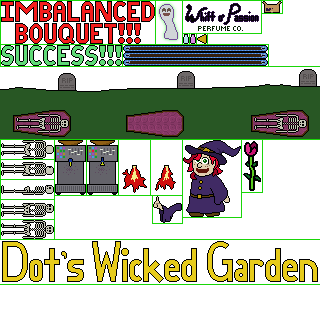
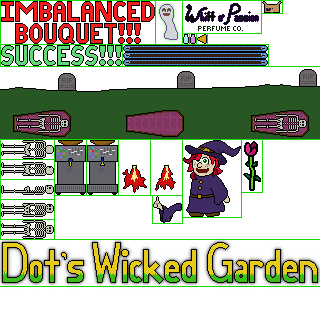
pretty up the title

Changed region(s): [[0.0, 0.75, 1.0, 0.9062]]

diff --git a/src/game/zs_layer_hello.c b/src/game/zs_layer_hello.c
@@ -162,7 +162,7 @@ static void _hello_render(struct zs_layer *layer) {
 
   // Background, title banner.
   graf_draw_rect(&g.graf,0,0,FBW,FBH,0x401030ff);
-  graf_draw_decal(&g.graf,g.texid_uibits,0,20,0,240,FBW,44,0);
+  graf_draw_decal(&g.graf,g.texid_uibits,0,20,0,240,FBW,46,0);
   
   // Message.
   int alpha=0xff;
